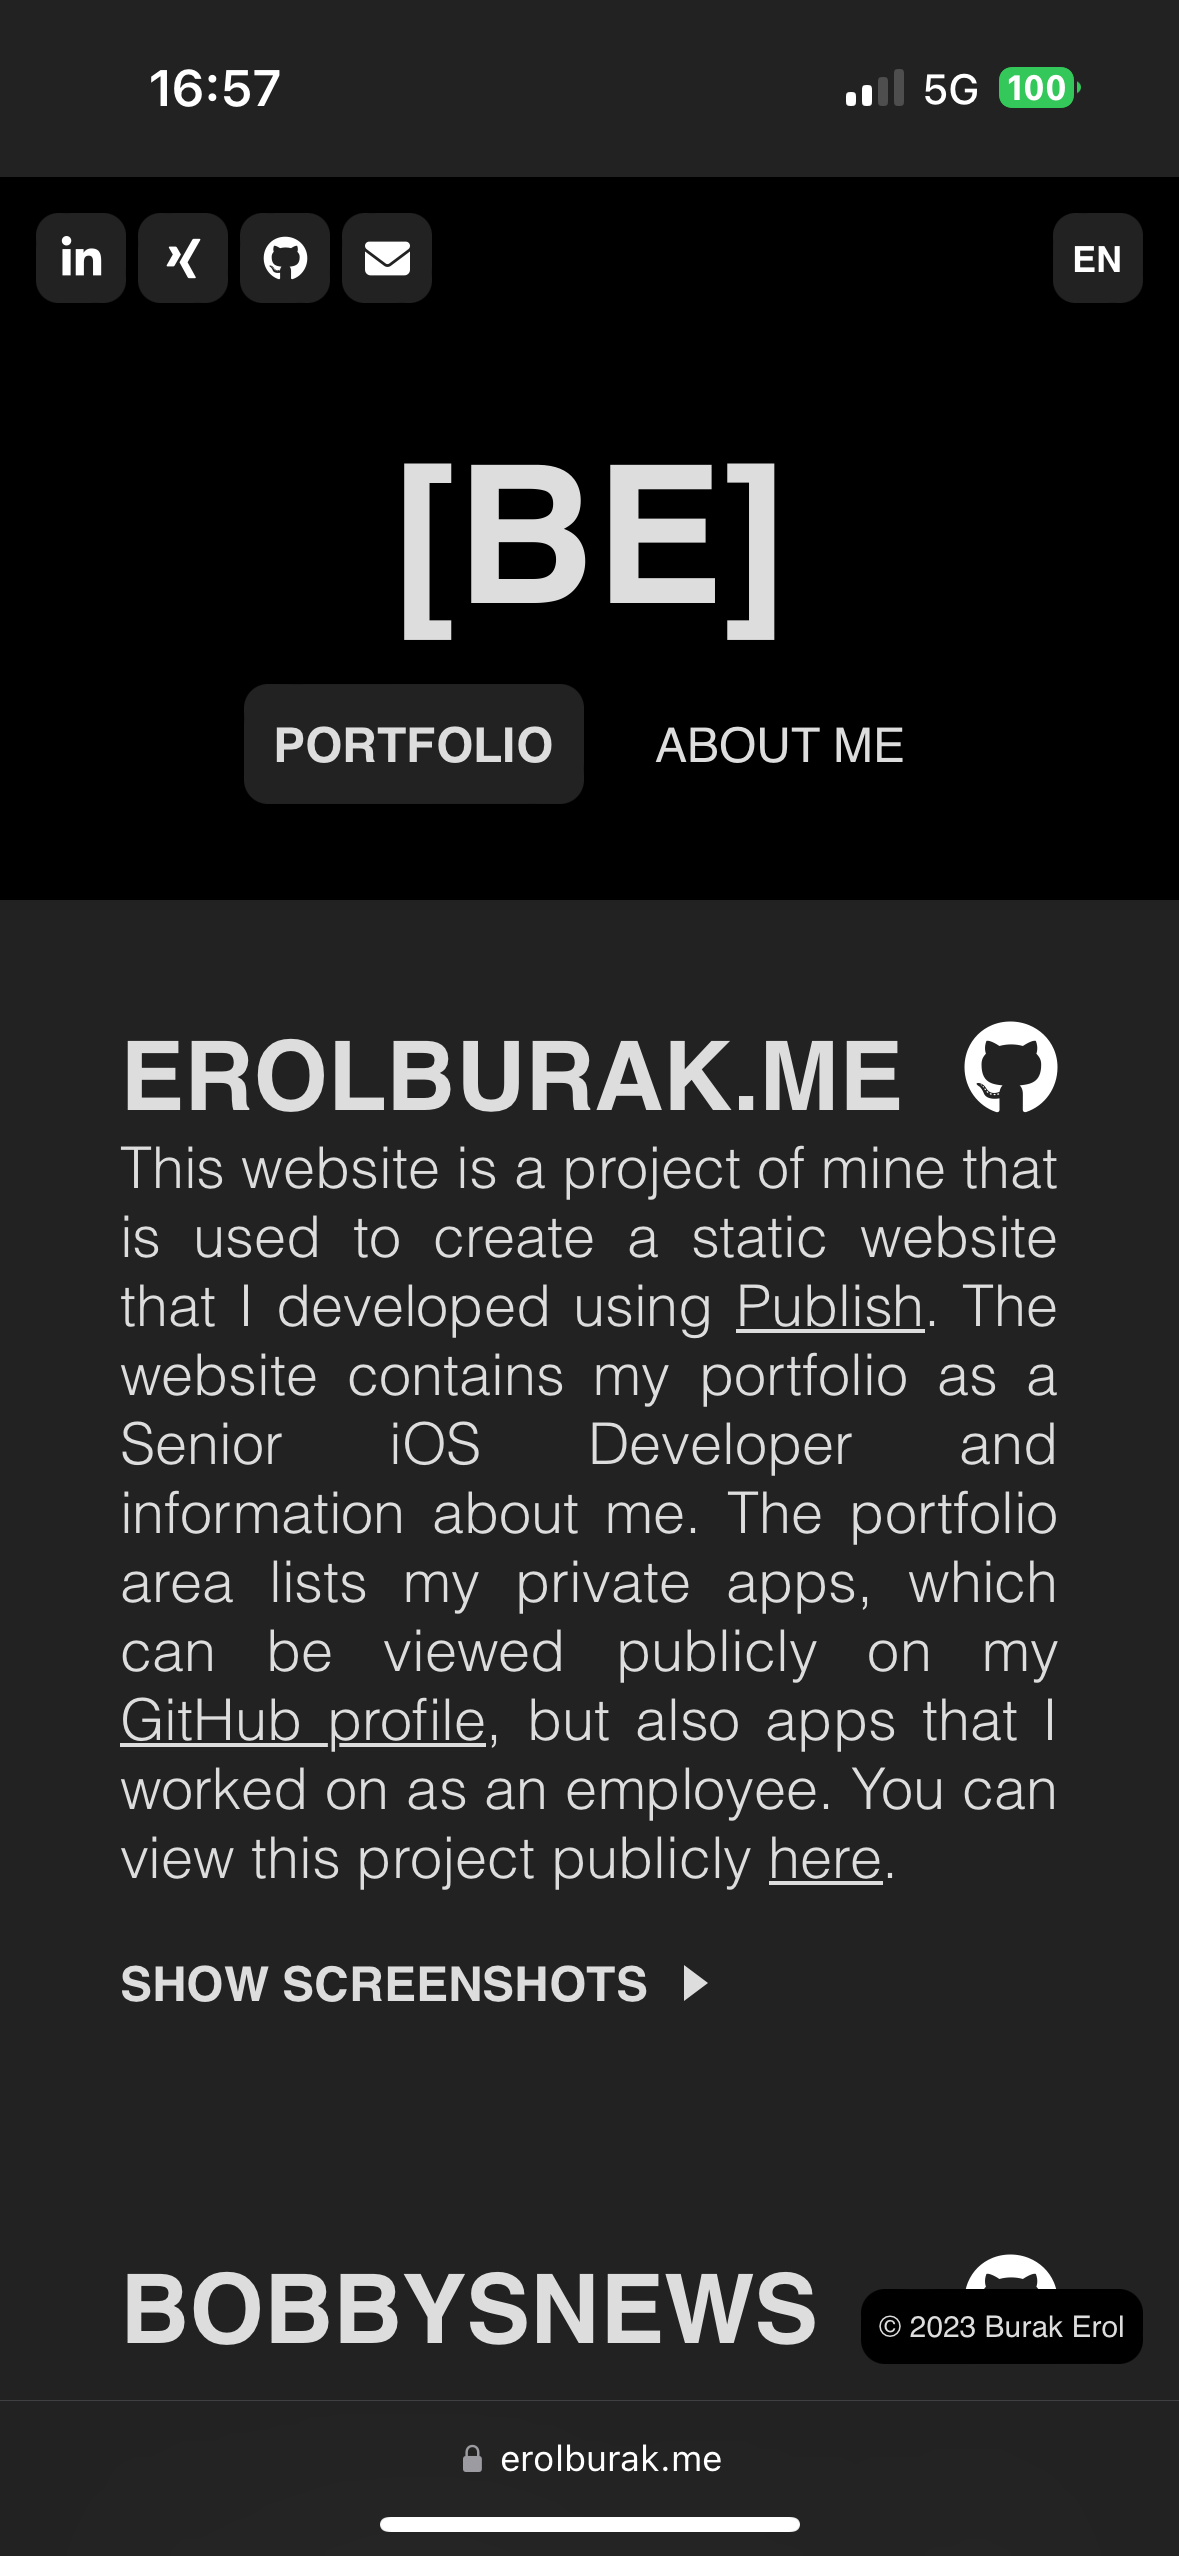
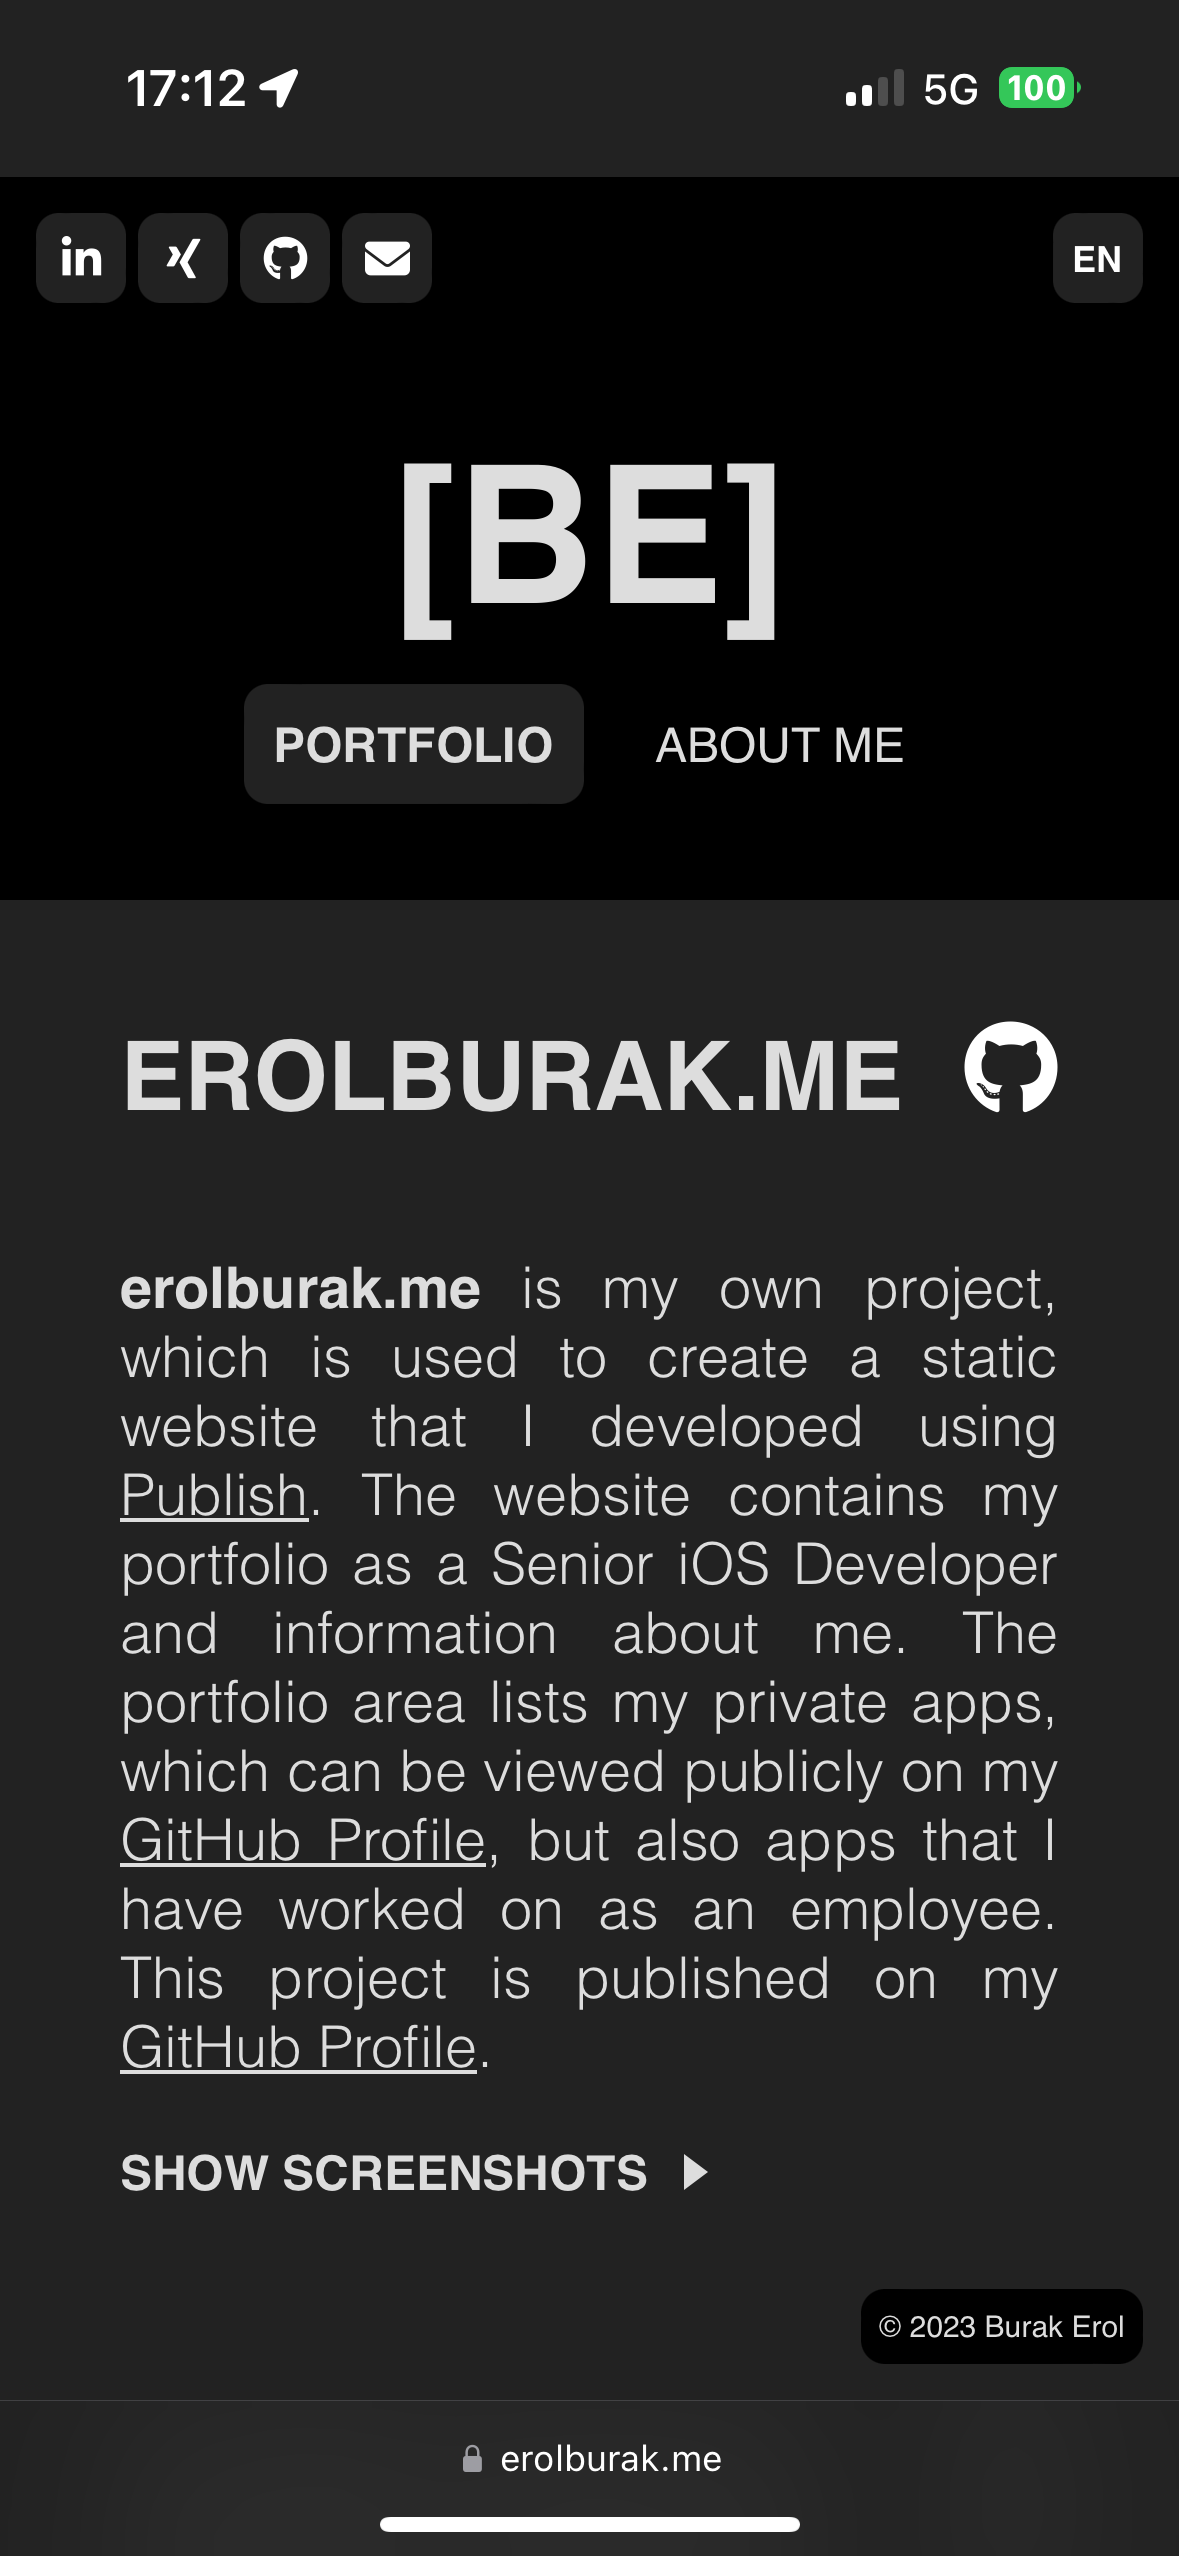
Publish deploy 2023-11-04 17:35

diff --git a/CustomTheme/styles.css b/CustomTheme/styles.css
@@ -130,7 +130,7 @@ p {
 .iPhone-image,
 .iPhone-image-single,
 .wrapper-portfolio-screenshot-title {
-	padding-inline: 10px;
+	margin-inline: 10px;
 }
 
 .link-image {
@@ -164,7 +164,7 @@ p {
 
 .screenshot-image-single {
 	padding-top: 0.75%;
-	width: 44.8%;
+	width: 46%;
 }
 
 .screenshot-title,

diff --git a/styles.css b/styles.css
@@ -130,7 +130,7 @@ p {
 .iPhone-image,
 .iPhone-image-single,
 .wrapper-portfolio-screenshot-title {
-	padding-inline: 10px;
+	margin-inline: 10px;
 }
 
 .link-image {
@@ -164,7 +164,7 @@ p {
 
 .screenshot-image-single {
 	padding-top: 0.75%;
-	width: 44.8%;
+	width: 46%;
 }
 
 .screenshot-title,

diff --git a/README.md b/README.md
@@ -4,7 +4,7 @@
 erolburak.me
 
 ## DESCRIPTION
-The erolburak.me project is a simple project to represent my [website](https://erolburak.me) as a Senior iOS Developer.
+**erolburak.me** is my own project, which is used to create a static website that I developed using [Publish](https://github.com/JohnSundell/Publish). The website contains my portfolio as a Senior iOS Developer and information about me. The portfolio area lists my private apps, which can be viewed publicly on my [GitHub Profile](https://github.com/erolburak), but also apps that I have worked on as an employee.
 
 ## SETUP
 - Build with: Xcode
@@ -13,5 +13,8 @@ The erolburak.me project is a simple project to represent my [website](https://e
 - Swift
 - [Publish](https://github.com/JohnSundell/Publish)
 
-## GIF :)
+## SCREENSHOTS
+Screenshots for this project are available on my [website](https://erolburak.me/en/portfolio).
+
+## HAVE FUN :)
 <img src="https://media3.giphy.com/media/v1.Y2lkPTc5MGI3NjExdDI3emQxaHl0bm5uZmNsaXRtNzNjcDRvN2s3OXV4NmFxMnR3d2didyZlcD12MV9pbnRlcm5hbF9naWZfYnlfaWQmY3Q9Zw/Ws6T5PN7wHv3cY8xy8/giphy.gif"/>
